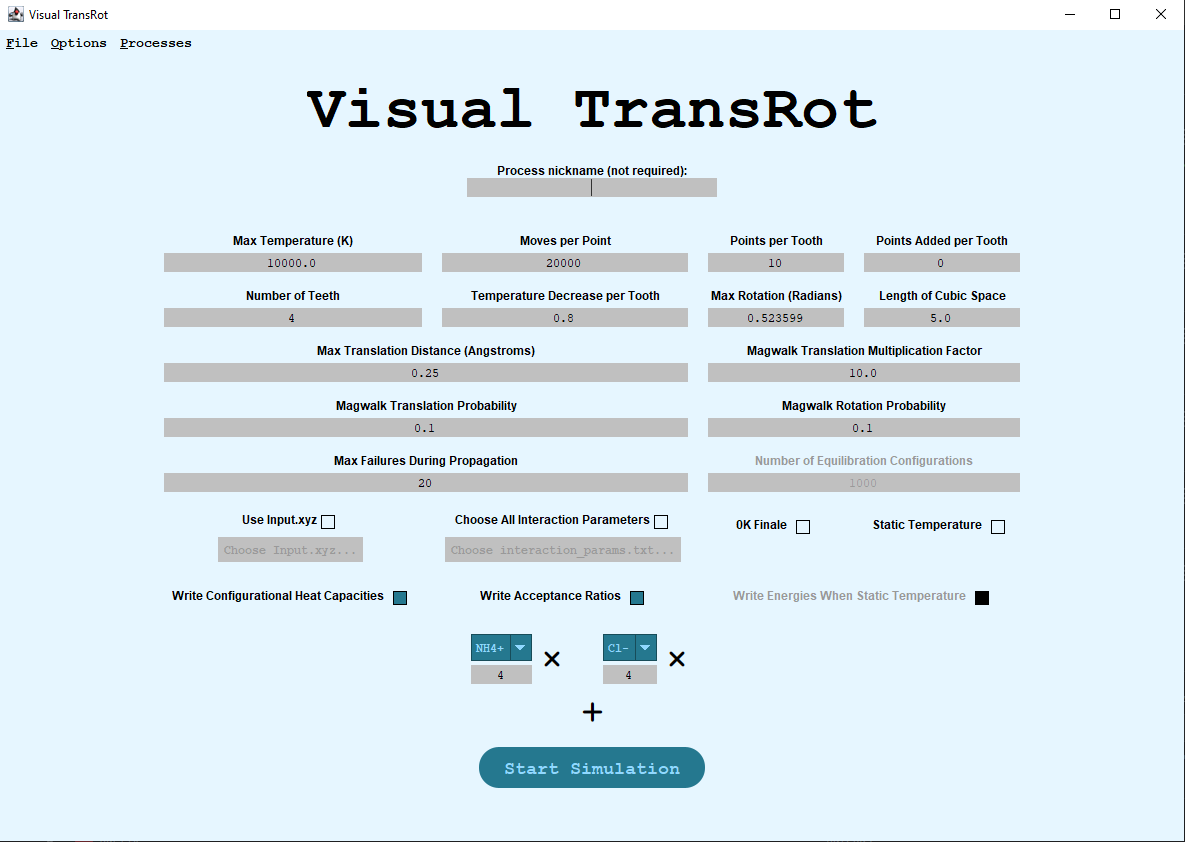
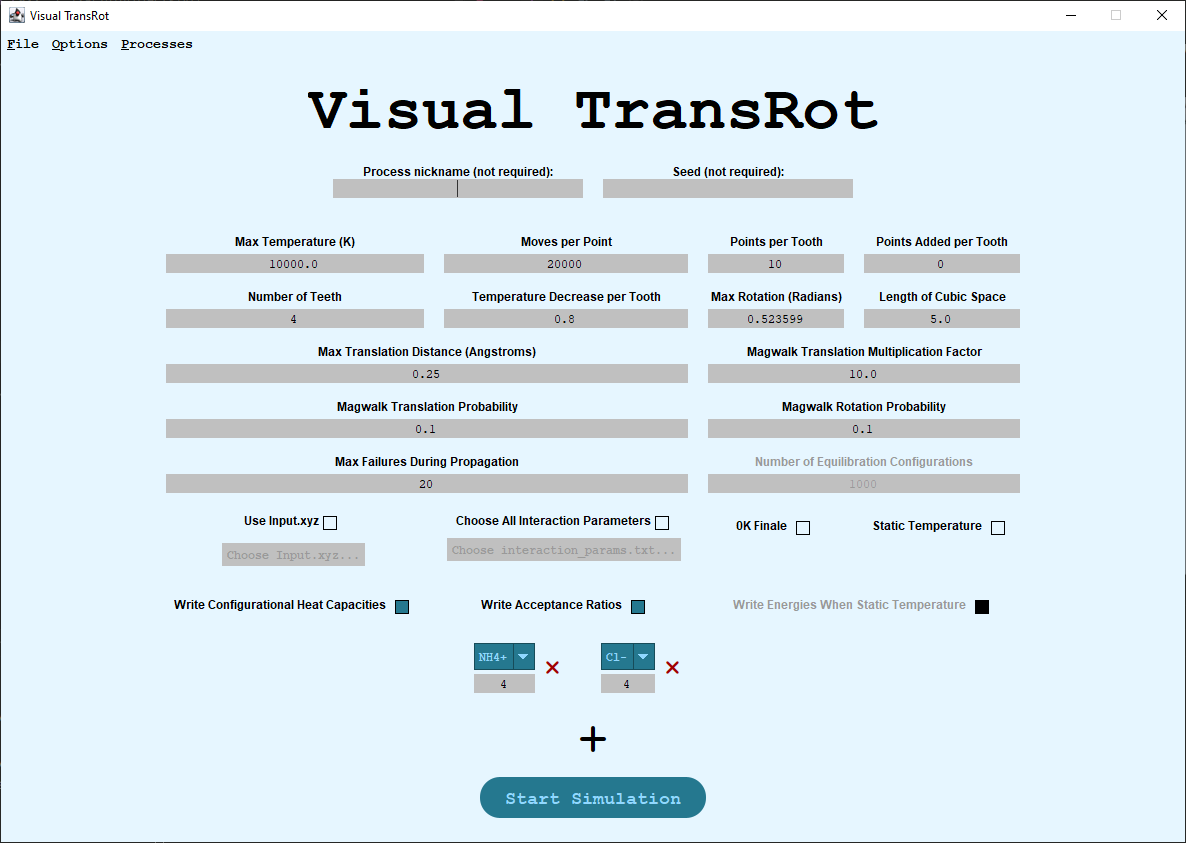
set seed in vtr

diff --git a/src/config/StartGUI.java b/src/config/StartGUI.java
@@ -84,6 +84,10 @@ public class StartGUI extends JFrame {
     }
 
     private void drawSettings() throws ClassCastException {
+        JPanel topPanel = new JPanel();
+        topPanel.setLayout(new BoxLayout(topPanel, BoxLayout.X_AXIS));
+        topPanel.setOpaque(false);
+
         // Nickname input
         JPanel namePanel = new JPanel();
         namePanel.setLayout(new BoxLayout(namePanel, BoxLayout.Y_AXIS));
@@ -105,7 +109,33 @@ public class StartGUI extends JFrame {
         nameField.setBorder(BorderFactory.createLineBorder(Globals.menuBgColor));
         nameField.setMaximumSize(new Dimension(250, nameField.getPreferredSize().height));
         namePanel.add(nameField);
-        contentPane.add(namePanel);
+        topPanel.add(namePanel);
+
+        topPanel.add(Box.createRigidArea(new Dimension(20, 0)));
+
+        // Seed input
+        JPanel seedPanel = new JPanel();
+        seedPanel.setLayout(new BoxLayout(seedPanel, BoxLayout.Y_AXIS));
+        seedPanel.setOpaque(false);
+
+        JLabel seedLabel = new JLabel("Seed (not required):", SwingConstants.CENTER);
+        seedLabel.setAlignmentX(Component.CENTER_ALIGNMENT);
+        seedLabel.setFont(Globals.settingsFont);
+        seedLabel.setForeground(Globals.textColor);
+        seedPanel.add(seedLabel);
+
+        JTextField seedField = new JTextField();
+        seedField.setAlignmentX(Component.CENTER_ALIGNMENT);
+        seedField.setHorizontalAlignment(SwingConstants.CENTER);
+        seedField.setBackground(Globals.bgColorDark);
+        seedField.setForeground(Globals.textColor);
+        seedField.setDisabledTextColor(Globals.textColorDisabled);
+        seedField.setFont(Globals.settingsFontNoBold);
+        seedField.setBorder(BorderFactory.createLineBorder(Globals.menuBgColor));
+        seedField.setMaximumSize(new Dimension(250, seedField.getPreferredSize().height));
+        seedPanel.add(seedField);
+        topPanel.add(seedPanel);
+        contentPane.add(topPanel);
 
         contentPane.add(Box.createRigidArea(new Dimension(0, 30)));
 
@@ -564,6 +594,17 @@ public class StartGUI extends JFrame {
                 } else {
                     ptCount = selectedMols.entrySet().stream().filter(kv -> !kv.getKey().equals("") && kv.getValue() > 0).mapToInt(kv -> DatabaseGUI.getInstance().getMolecule(kv.getKey()).atoms.size() * kv.getValue()).sum();
                     numMols = selectedMols.values().stream().mapToInt(i -> i).sum();
+                }
+
+                String seedStr = seedField.getText();
+                if (seedStr.length() > 0) {
+                    try {
+                        long seed = Long.parseLong(seedStr);
+                        arguments.add("-s");
+                        arguments.add(Long.toString(seed));
+                    } catch (NumberFormatException ignored) {
+                        showError("Seed must be an valid long value if used.", "Invalid Seed");
+                    }
                 }
                 saveSettings(Globals.configPath);
 

diff --git a/README.md b/README.md
@@ -39,6 +39,13 @@ VTR allows the user to define a nickname for each created process if desired, wh
 
 If no nickname is specified for a process, its unique Process ID is used by default.
 
+### Seed
+![](images/seed.png)
+
+VTR also provides a method for passing a seed directly to TransRot's random number generation for reproducibility of results.
+
+If no seed is passed for a process, it will use a random seed.
+
 ### Config
 ![](images/config.png)
 
@@ -187,8 +194,8 @@ Once a process is removed from the Process Monitor, it cannot be added back.
 Each individual process in the Process Monitor displays the following details: Process ID (PID), Process Name, Started At, Elapsed Time, and Status.
 - `PID` - Each process is associated with an OS-specific process ID, which can be used to distinguish all processes running currently on a system. A currently running process exposes some details on its current status to the host OS, and often can be used to externally kill the process.
 - `Process Name` - This is either a custom nickname associated with each process in the [Process Nickname](#process-nickname) section, or defaults to using a unique name containing the process's PID. Each `Process Name` currently on the Process Monitor must be unique.
-- `Started At` - A timestamp of the start time of the process, which can also be used for distinguishing purposes.
-- `Elapsed Time` - The elapsed time of currently running processes are updated live in the Process Manager to keep track of runtime in realtime; completed processes display this information from TransRot's `elapsed_time.log` output file.
+- `Started At` - A timestamp of the start time of the process, which can also be used for distinguishing processes.
+- `Elapsed Time` - The elapsed times of currently running processes are updated live in the Process Manager to keep track of runtime in real time; completed processes display this information from TransRot's `elapsed_time.log` output file.
 <a id="status"></a>
 - `Status` - The status of a process is one of 4 options, which are grouped by default in the Process Monitor:
   - `Processing` indicates that the processes is currently executing, and the `Elapsed Time` shown can be used to view its live execution time.
@@ -234,7 +241,7 @@ The `Error Log` tab displays a live feed of the calculation's error log. This ta
 #### `Output`
 ![](images/output_files.png)
 
-The `Output` tab is shown when a process is completed. It displays a list of all files output by TransRot, which are automatically created in the process's **Output Directory**.
+The `Output` tab is shown when a process is completed. It displays an alphabetical list of all files output by TransRot, which are automatically created in the process's **Output Directory**.
 
 All displayed file names are links, and clicking on these will open the file in the host OS, using whatever program is associated with the filetype.
 All intermediate and final output `.xyz` files are accompanied by a 'Use as Input.xyz' button. Clicking this will enable the 'Use Input.xyz' variable in VTR, and populate the input automatically with the associated file.
